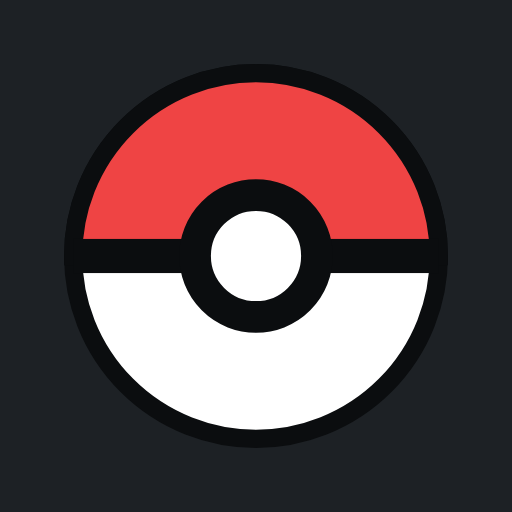
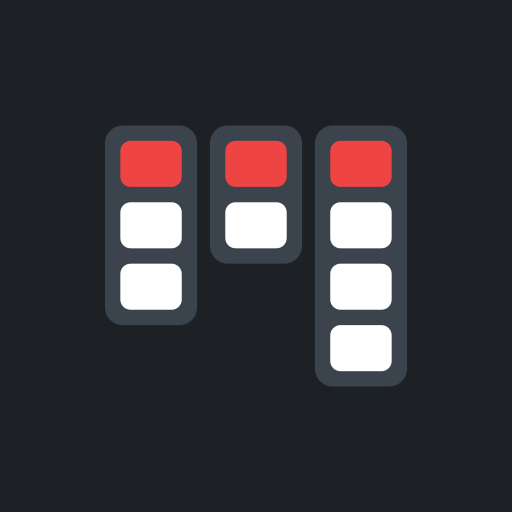
Nuevo icono: un tablero kanban con los colores de la pokéball
- El icono pasa de una pokéball a un tablero kanban: tres columnas con la primera tarjeta roja
  y el resto blancas, sobre el fondo oscuro de siempre.
- Cambia en la pestaña del navegador, la app instalada (PWA), el logo de la cabecera y la app de
  Android (icono del escritorio, icono temático de Android 13+, pantalla de carga y notificaciones).

Changed region(s): [[0.1562, 0.1562, 0.8438, 0.8438]]

diff --git a/src/components/layout/Header.tsx b/src/components/layout/Header.tsx
@@ -16,12 +16,23 @@ import { SearchBox } from './SearchBox';
 
 function Logo() {
   return (
-    <svg className="logo" viewBox="0 0 32 32" width="26" height="26" aria-hidden>
-      <circle cx="16" cy="16" r="14" fill="#fff" />
-      <path d="M2 16a14 14 0 0 1 28 0z" fill="#ef4444" />
-      <rect x="2" y="14.5" width="28" height="3" fill="#1d2125" />
-      <circle cx="16" cy="16" r="5" fill="#fff" stroke="#1d2125" strokeWidth="3" />
-      <circle cx="16" cy="16" r="1.6" fill="#1d2125" />
+    <svg className="logo" viewBox="0 0 100 100" width="26" height="26" aria-hidden>
+      <rect width="100" height="100" rx="22" fill="#1d2125" />
+      {/* Three lanes; the first card of each one is red, like the top of a pokéball. */}
+      <g transform="translate(50 50) scale(1.15) translate(-50 -50)">
+        <rect x="20.5" y="24.5" width="18" height="39" rx="3.5" fill="#3b434c" />
+        <rect x="23.5" y="27.5" width="12" height="9" rx="2" fill="#ef4444" />
+        <rect x="23.5" y="39.5" width="12" height="9" rx="2" fill="#fff" />
+        <rect x="23.5" y="51.5" width="12" height="9" rx="2" fill="#fff" />
+        <rect x="41" y="24.5" width="18" height="27" rx="3.5" fill="#3b434c" />
+        <rect x="44" y="27.5" width="12" height="9" rx="2" fill="#ef4444" />
+        <rect x="44" y="39.5" width="12" height="9" rx="2" fill="#fff" />
+        <rect x="61.5" y="24.5" width="18" height="51" rx="3.5" fill="#3b434c" />
+        <rect x="64.5" y="27.5" width="12" height="9" rx="2" fill="#ef4444" />
+        <rect x="64.5" y="39.5" width="12" height="9" rx="2" fill="#fff" />
+        <rect x="64.5" y="51.5" width="12" height="9" rx="2" fill="#fff" />
+        <rect x="64.5" y="63.5" width="12" height="9" rx="2" fill="#fff" />
+      </g>
     </svg>
   );
 }
